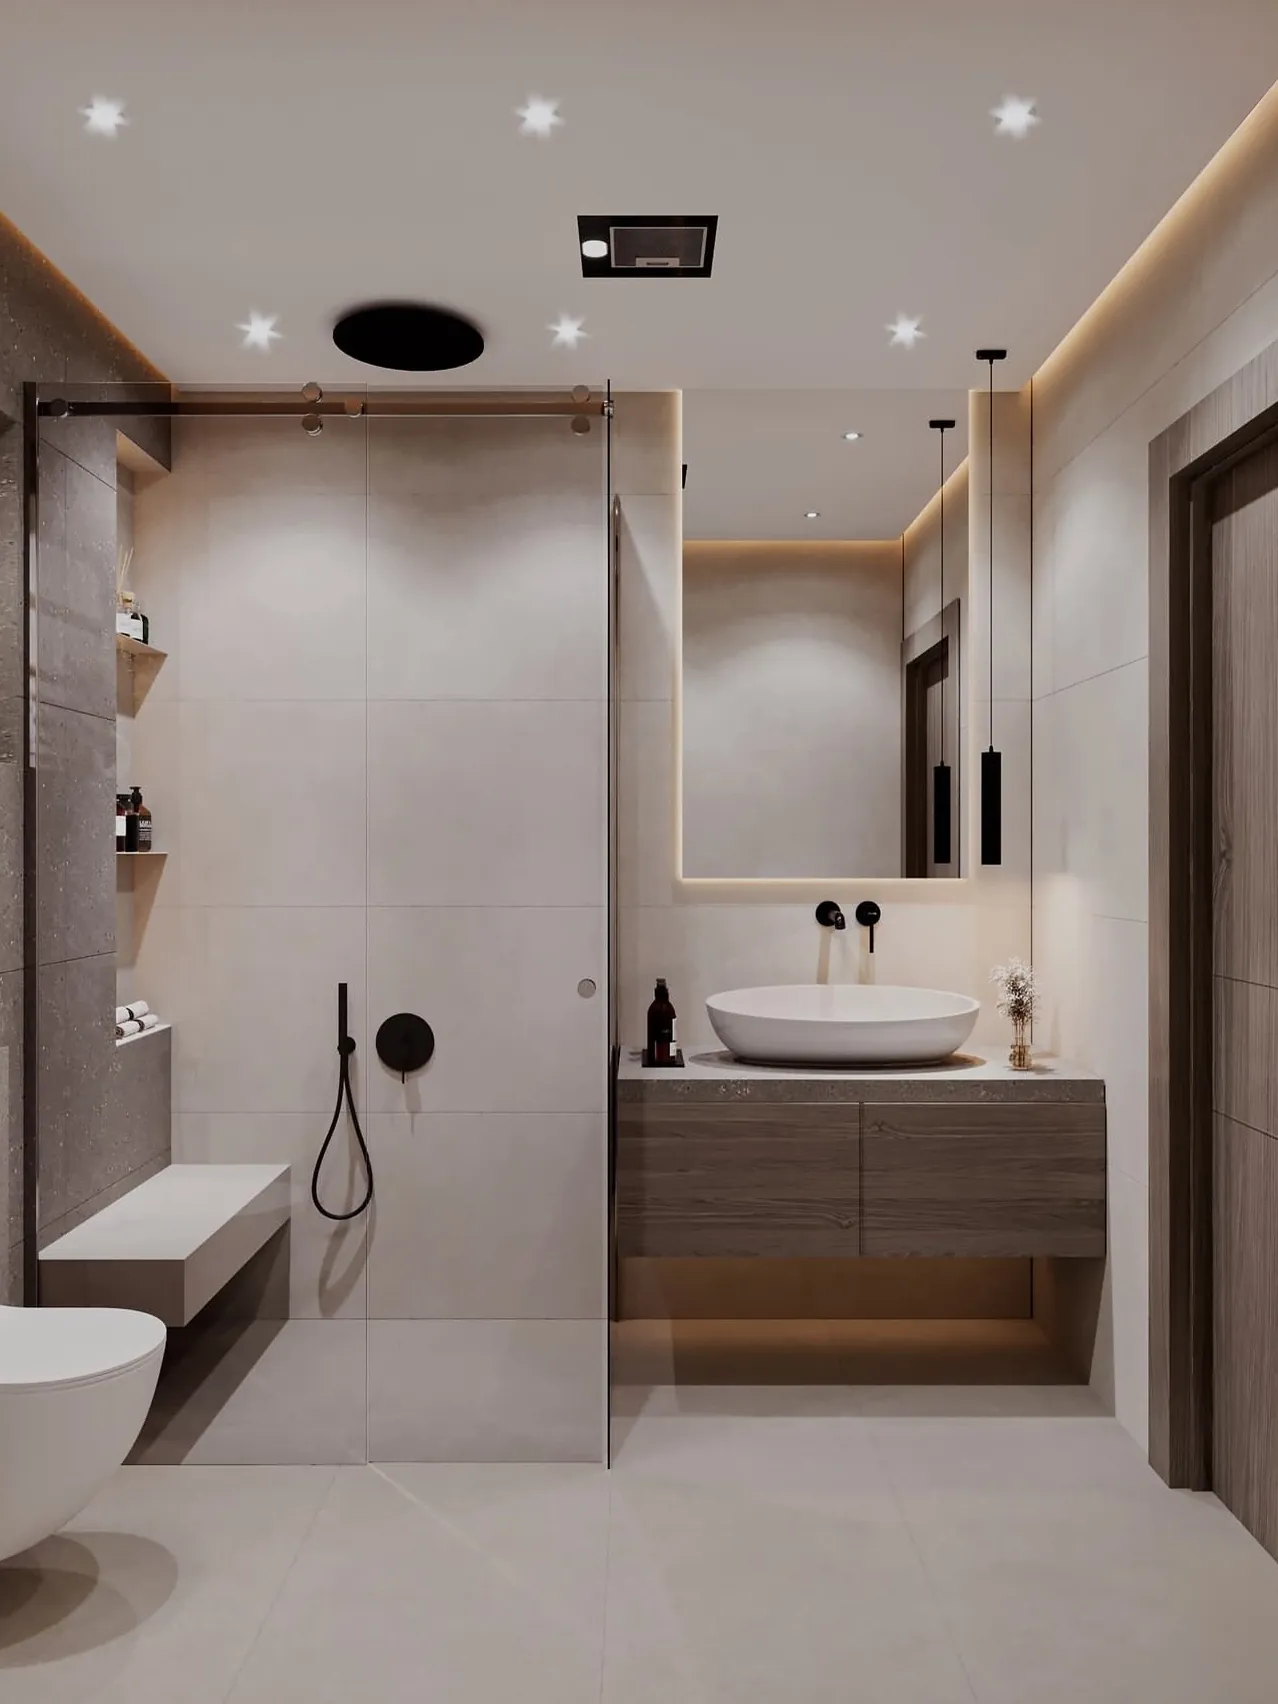
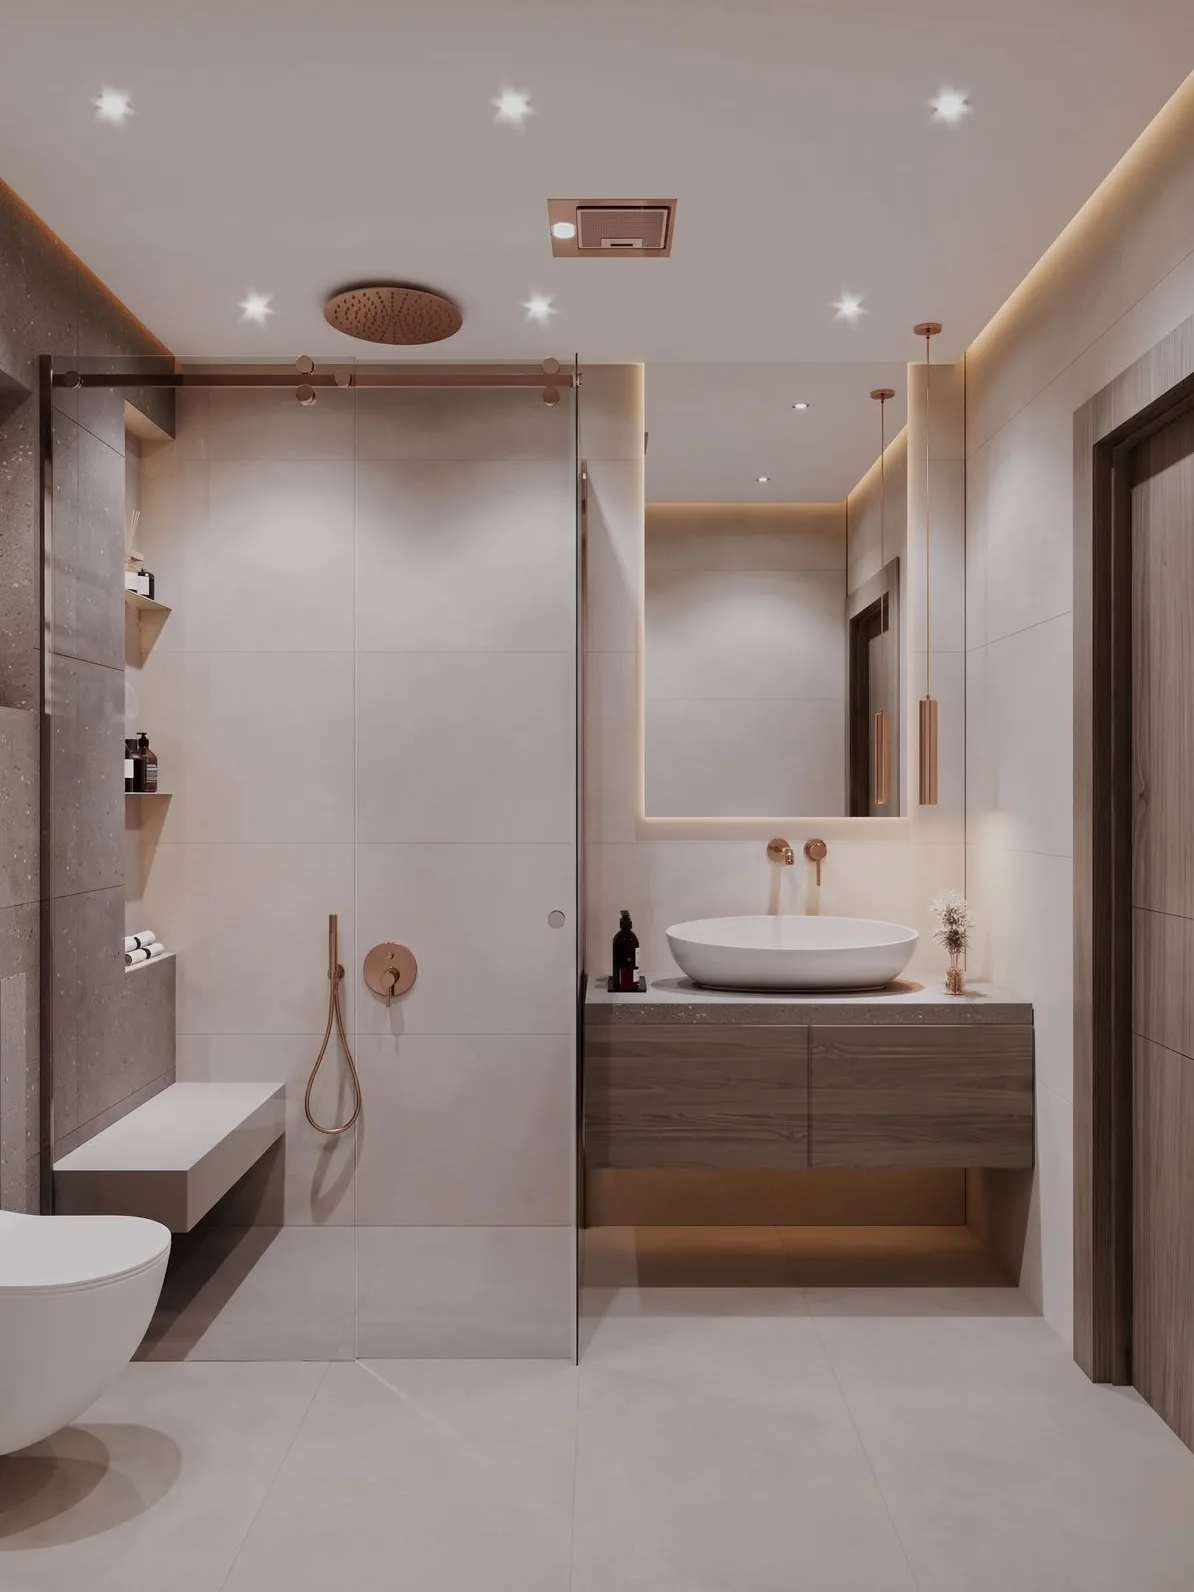
Use the new copper bathroom render and add two more angles

diff --git a/index.html b/index.html
@@ -17,7 +17,7 @@
   <link rel="preconnect" href="https://fonts.gstatic.com" crossorigin>
   <link rel="stylesheet" href="https://fonts.googleapis.com/css2?family=Montserrat:wght@200..700&family=Playfair+Display:ital,wght@0,400..700;1,400..600&display=swap">
   <link rel="preload" as="image" href="assets/img/wave1.webp" fetchpriority="high">
-  <link rel="stylesheet" href="css/style.css?v=4">
+  <link rel="stylesheet" href="css/style.css?v=5">
   <script>
     // Motion runs only with JS; without it every element is simply visible.
     document.documentElement.classList.add('js');
@@ -403,7 +403,7 @@
           </div>
           <div class="ba-item">
             <div class="ba r-3-4" style="--x: 50%">
-              <img class="ba__after" src="assets/img/ba-bath-after.webp" alt="Bathroom after: glass shower, floating timber vanity and warm wall lighting" loading="lazy">
+              <img class="ba__after" src="assets/img/ba-bath-after.webp" alt="Bathroom after: glass shower with copper fittings, a floating timber vanity and warm wall lighting" loading="lazy">
               <div class="ba__before"><img src="assets/img/ba-bath-before.webp" alt="Bathroom before: raw brick walls, a toilet frame and pipes in a dug-out floor" loading="lazy"></div>
               <span class="ba__tag ba__tag--before" aria-hidden="true">Before</span>
               <span class="ba__tag ba__tag--after" aria-hidden="true">After</span>
@@ -434,6 +434,14 @@
             </div>
             <p class="ba__cap"><span>04</span> Living room</p>
           </div>
+        </div>
+      </div>
+
+      <div class="wrap reno__more">
+        <p class="eyebrow">Bathroom · more angles</p>
+        <div class="grid-2">
+          <figure class="fig r-3-4 reveal" tabindex="0"><img src="assets/img/bath-2.webp" alt="Bathroom with a stone-clad WC wall, a window niche and a glass shower with copper fittings" loading="lazy"><figcaption>Shower &amp; WC wall</figcaption></figure>
+          <figure class="fig r-3-4 reveal" tabindex="0"><img src="assets/img/bath-3.webp" alt="Bathroom seen through the glass shower towards the vanity and a walnut door" loading="lazy"><figcaption>Vanity &amp; door</figcaption></figure>
         </div>
       </div>
 
@@ -550,6 +558,6 @@
   <div class="cursor" aria-hidden="true"><span class="cursor__label"></span></div>
 
   <script src="https://cdn.jsdelivr.net/npm/lenis@1.1.13/dist/lenis.min.js" defer></script>
-  <script src="js/main.js?v=4" defer></script>
+  <script src="js/main.js?v=5" defer></script>
 </body>
 </html>

diff --git a/css/style.css b/css/style.css
@@ -498,6 +498,8 @@ html.lenis, html.lenis body { height: auto; }
 .ba:focus-within { outline: 1px solid var(--taupe); outline-offset: 4px; }
 .ba__cap { display: flex; gap: 14px; align-items: baseline; margin: 16px 0 0; font-size: 11px; font-weight: 500; letter-spacing: .3em; text-transform: uppercase; }
 .ba__cap span { font-family: var(--serif); font-style: italic; font-size: 20px; letter-spacing: 0; color: var(--taupe); }
+.reno__more { margin-top: clamp(64px, 8vw, 110px); }
+.reno__more .grid-2 { max-width: 980px; }
 .shell { overflow: hidden; margin: clamp(80px, 10vw, 140px) 0 clamp(56px, 7vw, 100px); }
 .shell__track { display: flex; gap: 10px; width: max-content; will-change: transform; }
 .shell__track img { flex: none; height: clamp(200px, 26vw, 380px); width: auto; filter: grayscale(.6) brightness(.85); transition: filter .6s; }
